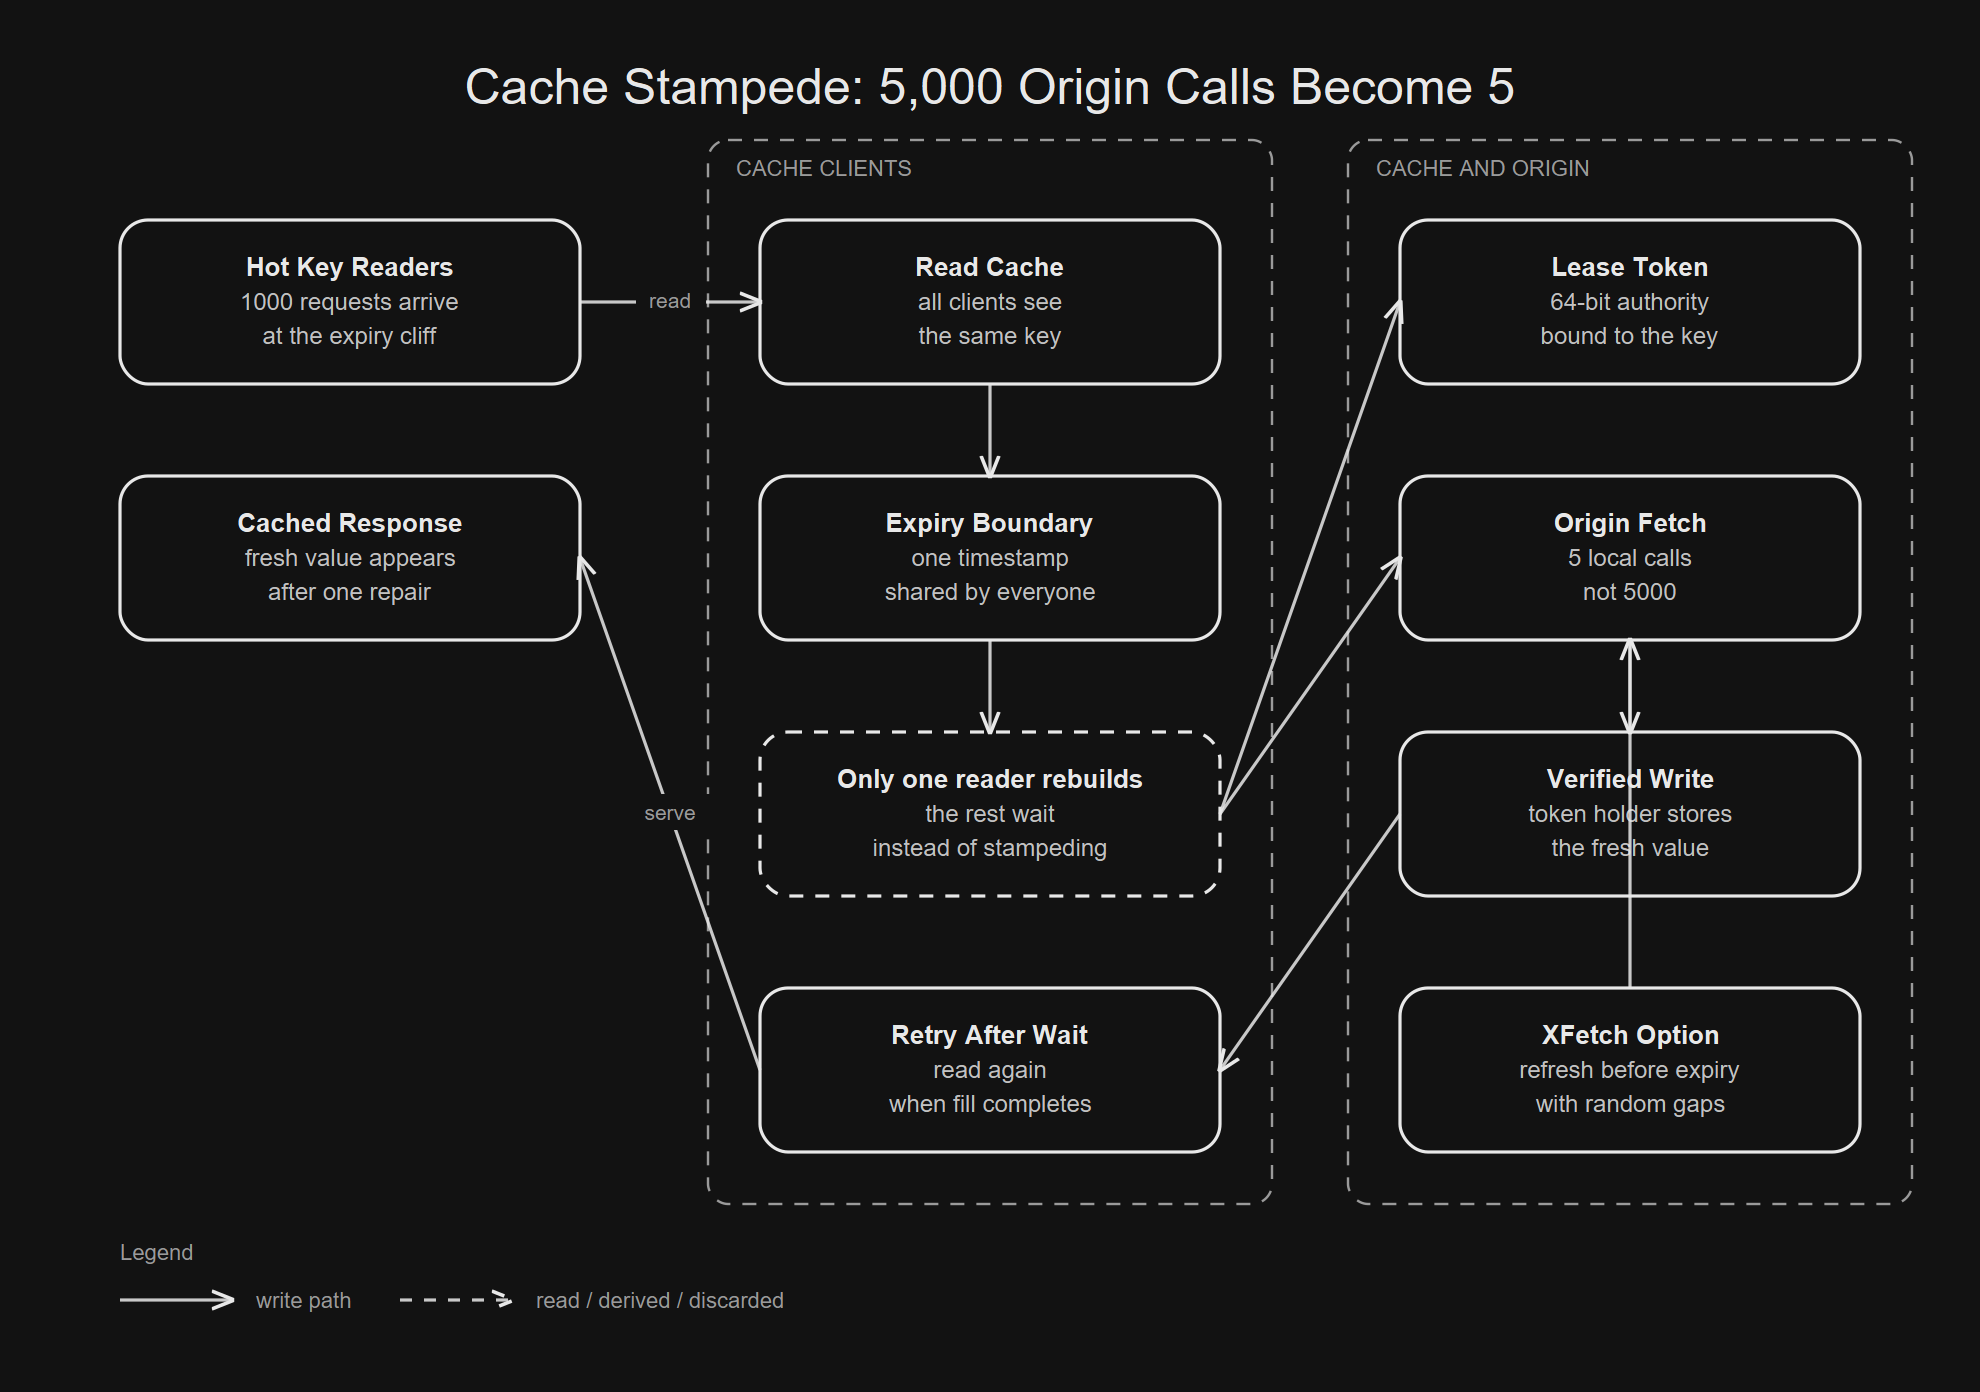
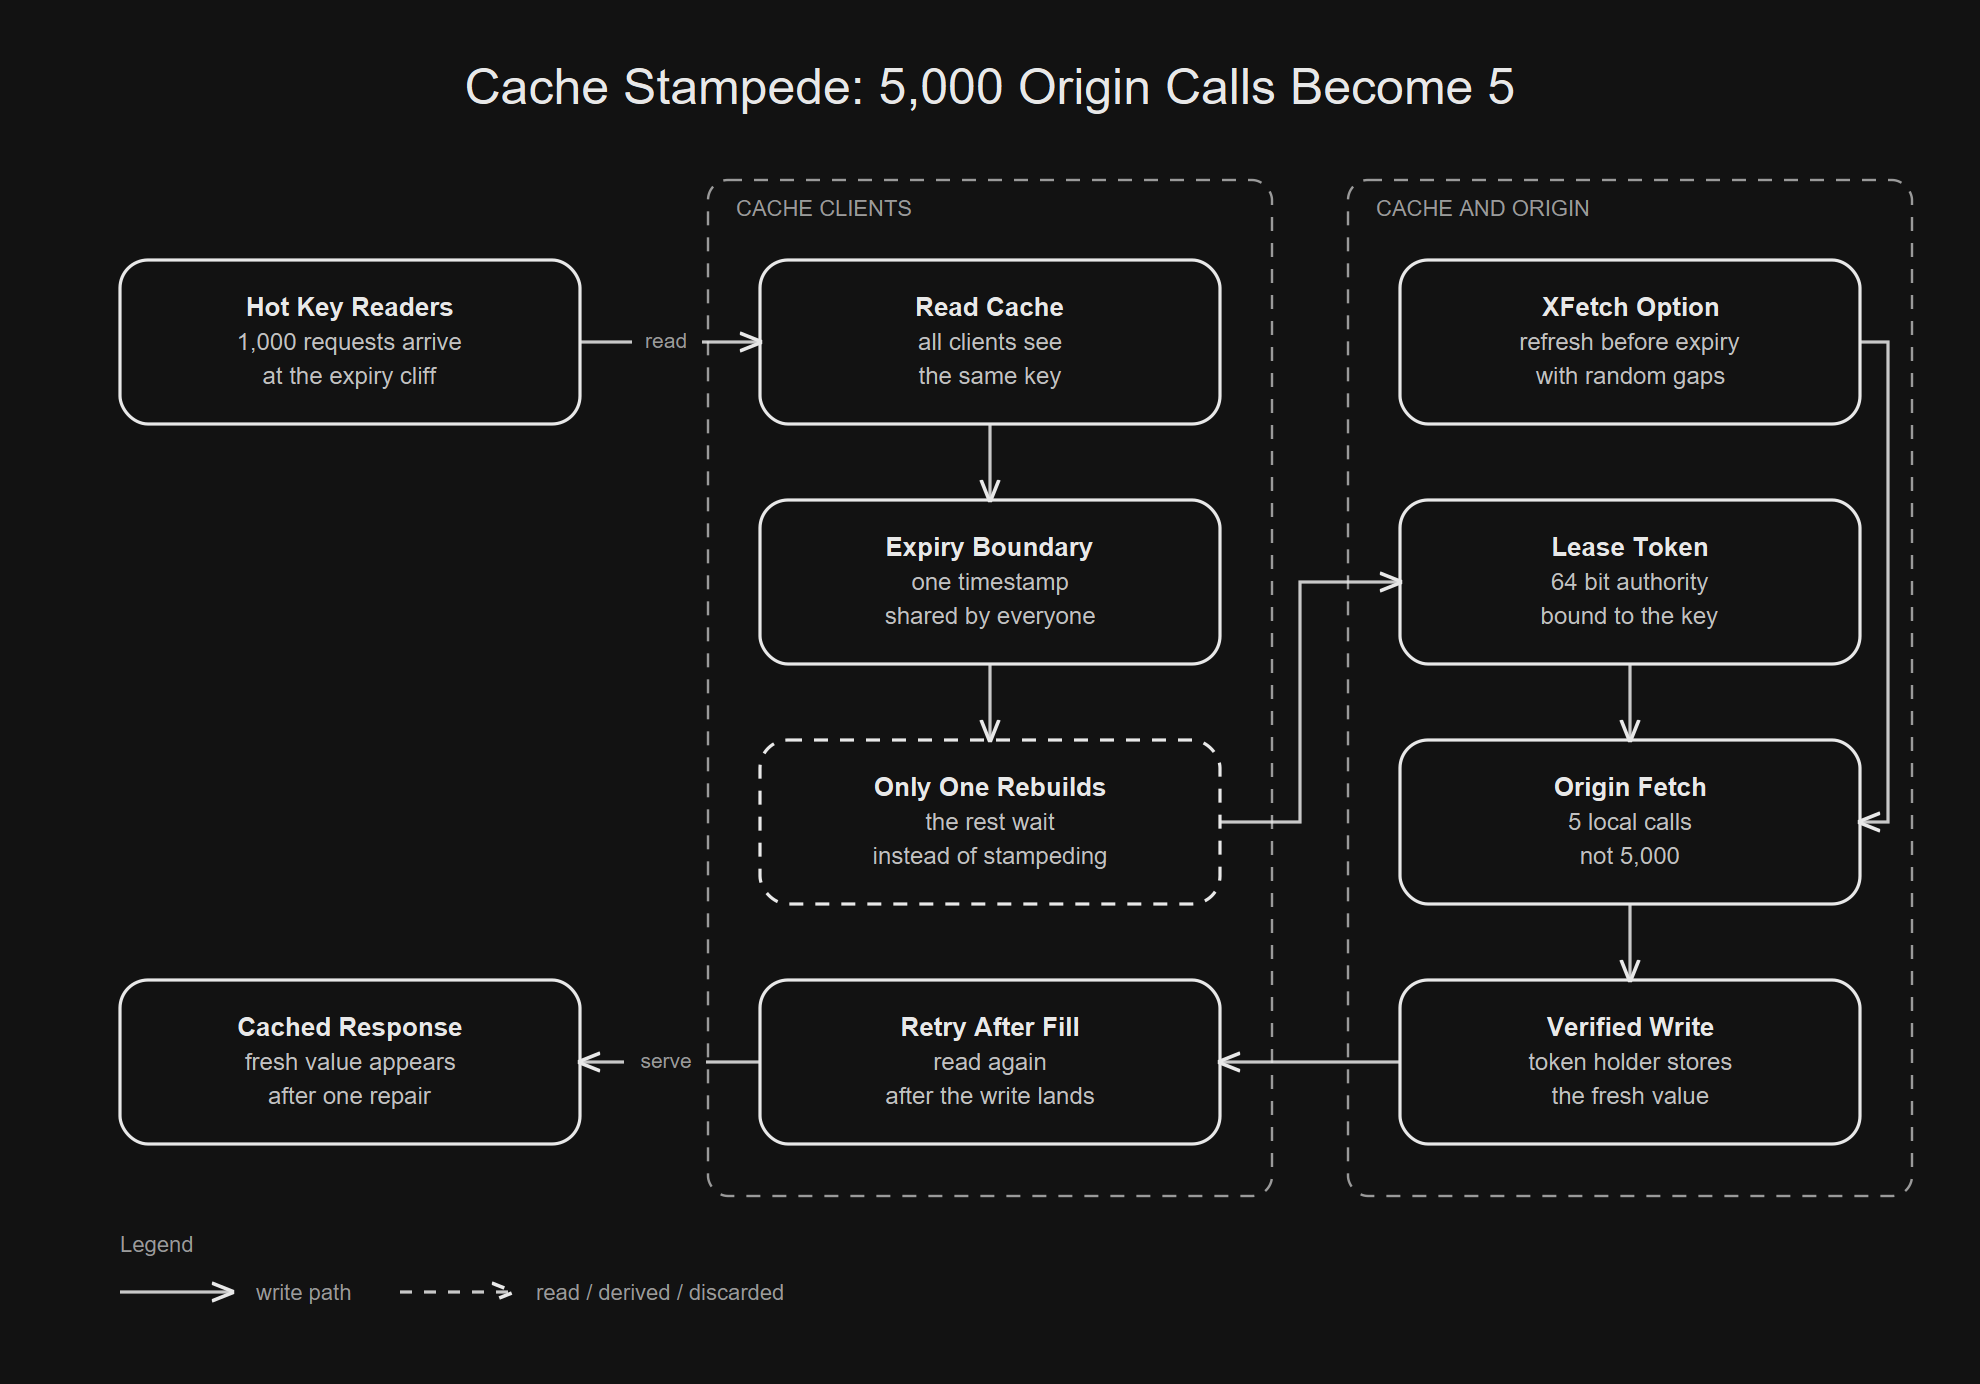
Clean up cache stampede diagram layout

diff --git a/public/articles/cache-stampede-control.html b/public/articles/cache-stampede-control.html
@@ -13,7 +13,7 @@
     <meta property="og:description" content="How cache stampedes form, how Facebook memcache leases suppress duplicate work, and how XFetch refreshes before the cliff.">
     <meta property="og:image" content="https://black-fog-d30f.pratyushktiwari99.workers.dev/assets/cache-stampede-control.png">
     <meta property="og:image:width" content="1980">
-    <meta property="og:image:height" content="1392">
+    <meta property="og:image:height" content="1384">
     <meta property="og:image:alt" content="Cache stampede architecture showing hot key readers, cache clients, a lease token, one origin fetch, and an XFetch option">
     <meta property="article:published_time" content="2026-09-27">
     <meta property="article:author" content="Pratyush">
@@ -221,7 +221,7 @@
         </div>
 
         <figure class="evidence-figure">
-          <img src="../assets/cache-stampede-control.png" width="1980" height="1392" loading="lazy" alt="Cache stampede architecture showing hot key readers, cache clients, one reader rebuilding through a lease, origin fetch, verified write, and XFetch early refresh.">
+          <img src="../assets/cache-stampede-control.png" width="1980" height="1384" loading="lazy" alt="Cache stampede architecture showing hot key readers, cache clients, one reader rebuilding through a lease, origin fetch, verified write, and XFetch early refresh.">
           <figcaption>The mechanism is not a faster origin. It is a rule that decides who is allowed to rebuild the missing value.</figcaption>
         </figure>
 
